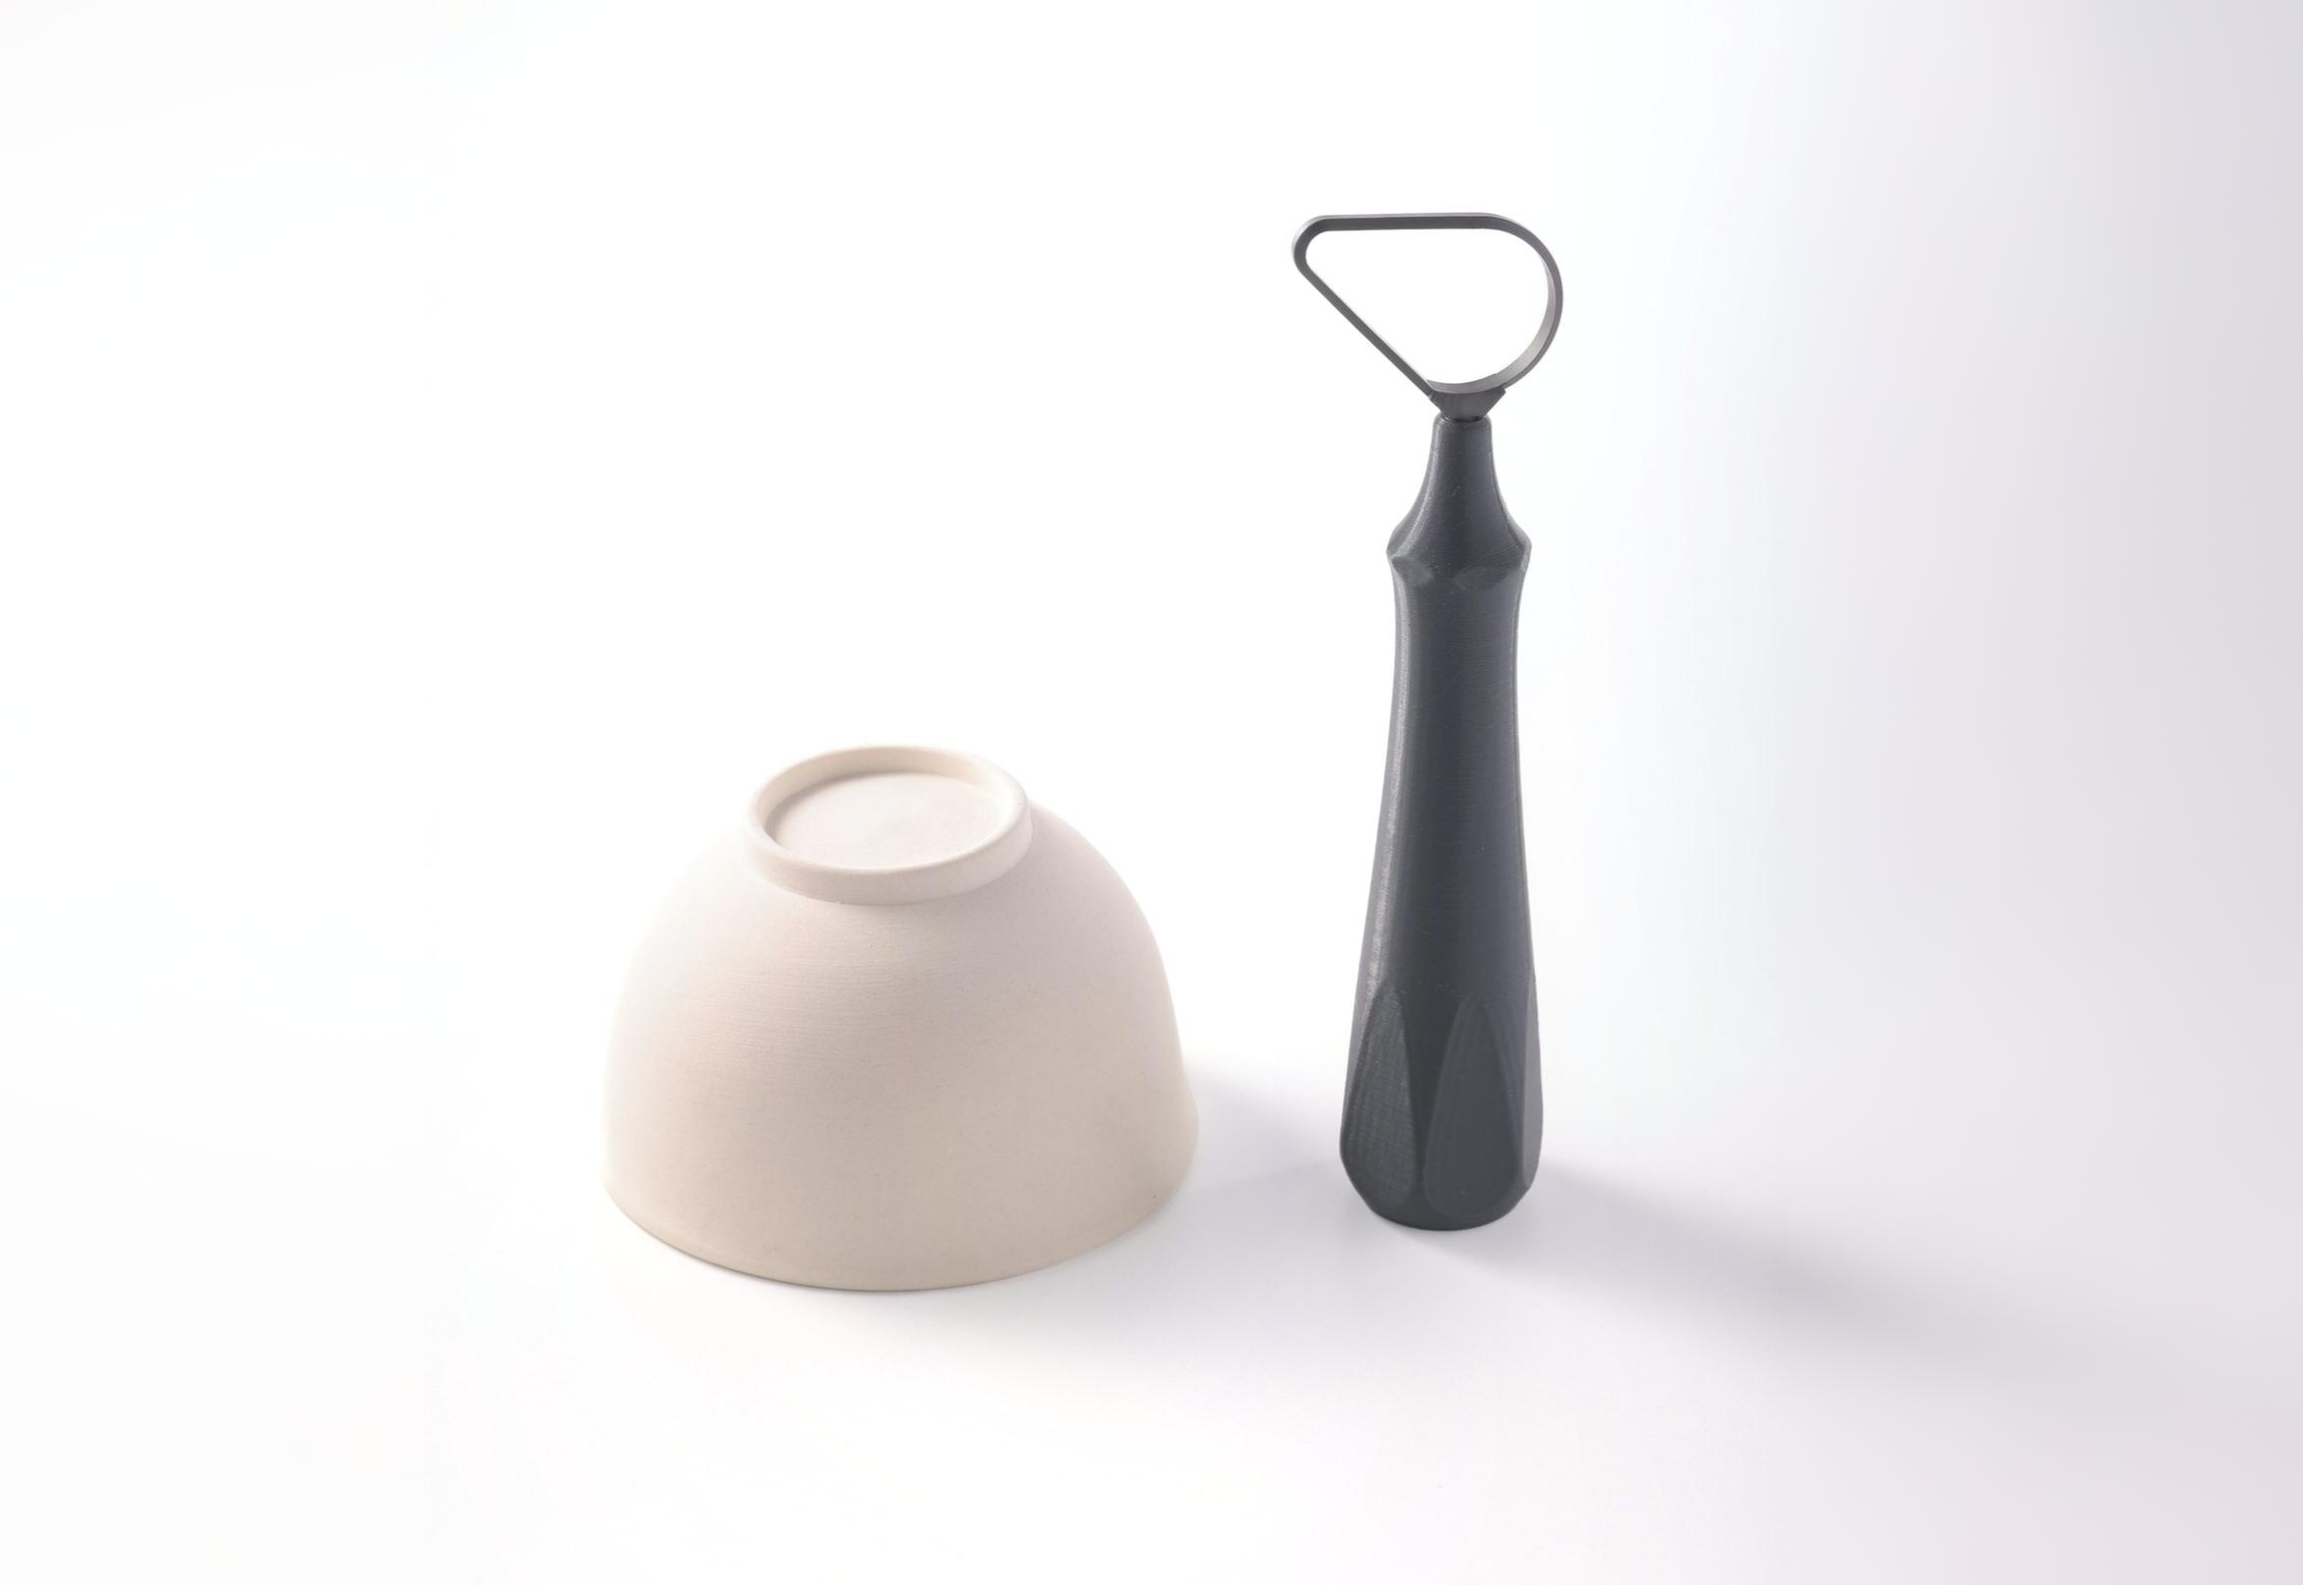
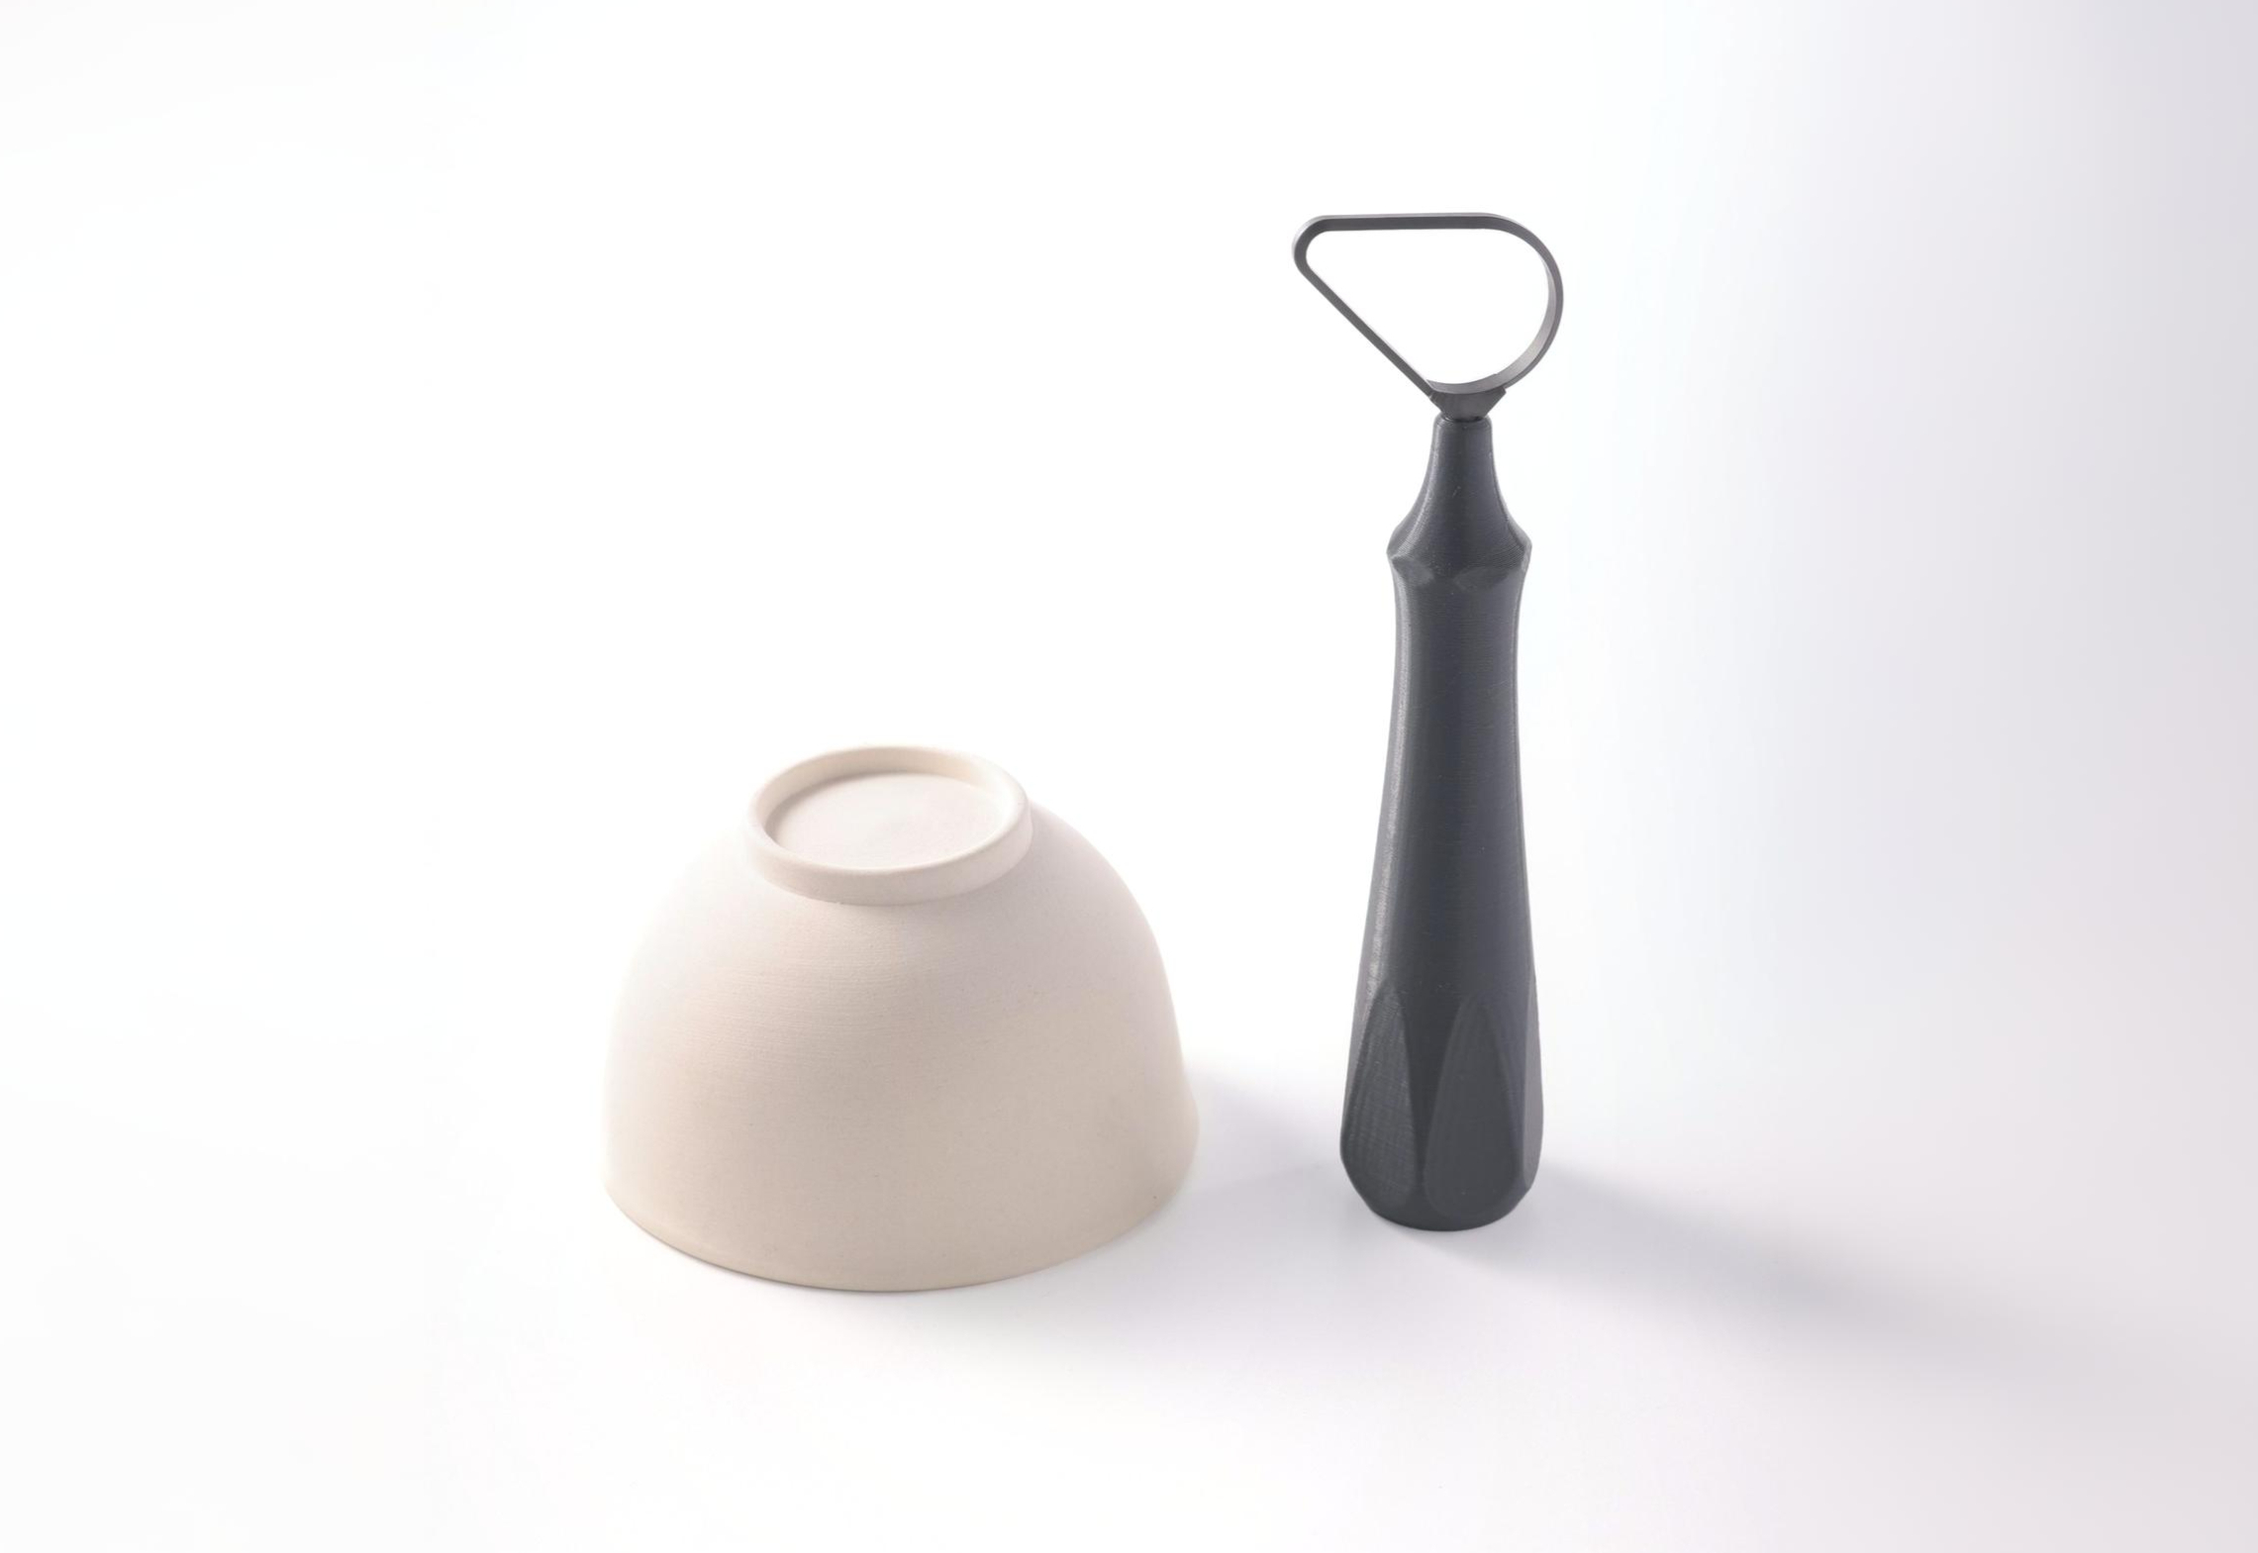
Update the expanded product image for canns to improve visual representation.

diff --git a/index.html b/index.html
@@ -252,7 +252,7 @@
 
                 <a href="cutter.html" class="product-card product-card-link">
                     <div class="product-image">
-                        <img src="pics/cutter/5.jpg" alt="Струны для резки глины">
+                        <img src="pics/cutter/4_expand.jpg" alt="Струны для резки глины">
                     </div>
                     <h3>Струны</h3>
                     <p>Кевларовые струны для резки</p>
